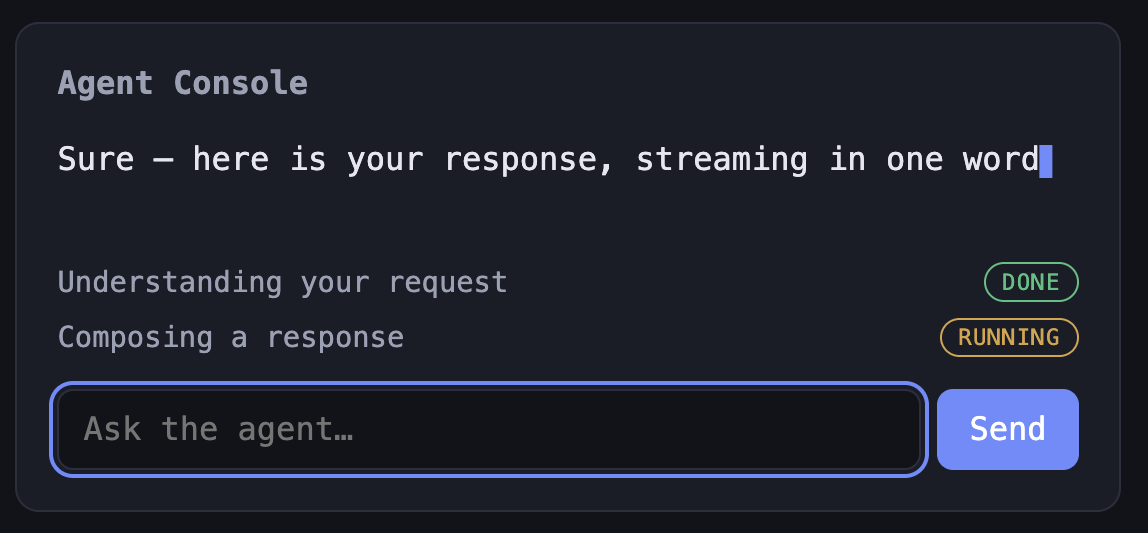
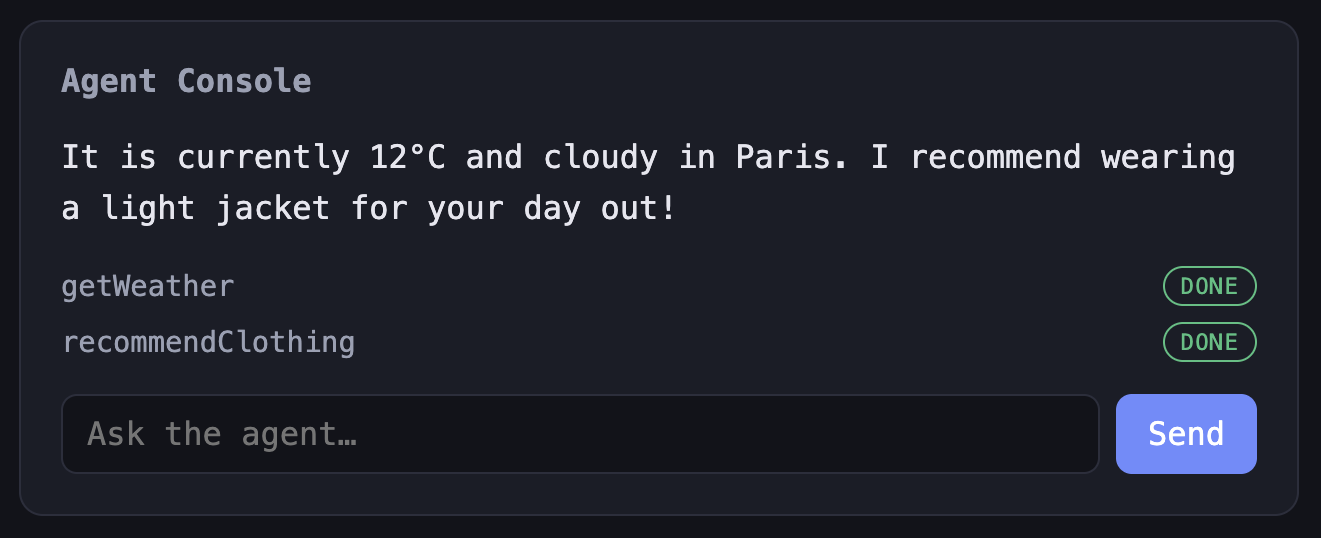
Stream tool-call lifecycle into the live action tracker

diff --git a/README.md b/README.md
@@ -13,6 +13,18 @@ _(First load may take ~50s while the free backend wakes from idle.)_
 
 ![Agent Console](docs/screenshot.png)
 
+## Try it
+
+The agent has two **stubbed** tools (`getWeather`, `recommendClothing`) that know a few cities.
+Prompts to try:
+
+- _"What should I wear in Paris?"_ → chains `getWeather` → `recommendClothing`; both rows light up
+- _"What's the weather in Tokyo?"_ → calls `getWeather` only
+- _"Hello"_ → no tools, just a streamed reply (empty tracker — that's expected, not a bug)
+
+Known cities: **Paris, London, Tokyo, New York.** Ask about anywhere else and you'll hit the
+error state — the tool has no data, surfaced through the normal error path on purpose.
+
 ## The core idea: one seam
 
 **All backend behavior lives behind a single function — `sendMessage()` — that streams